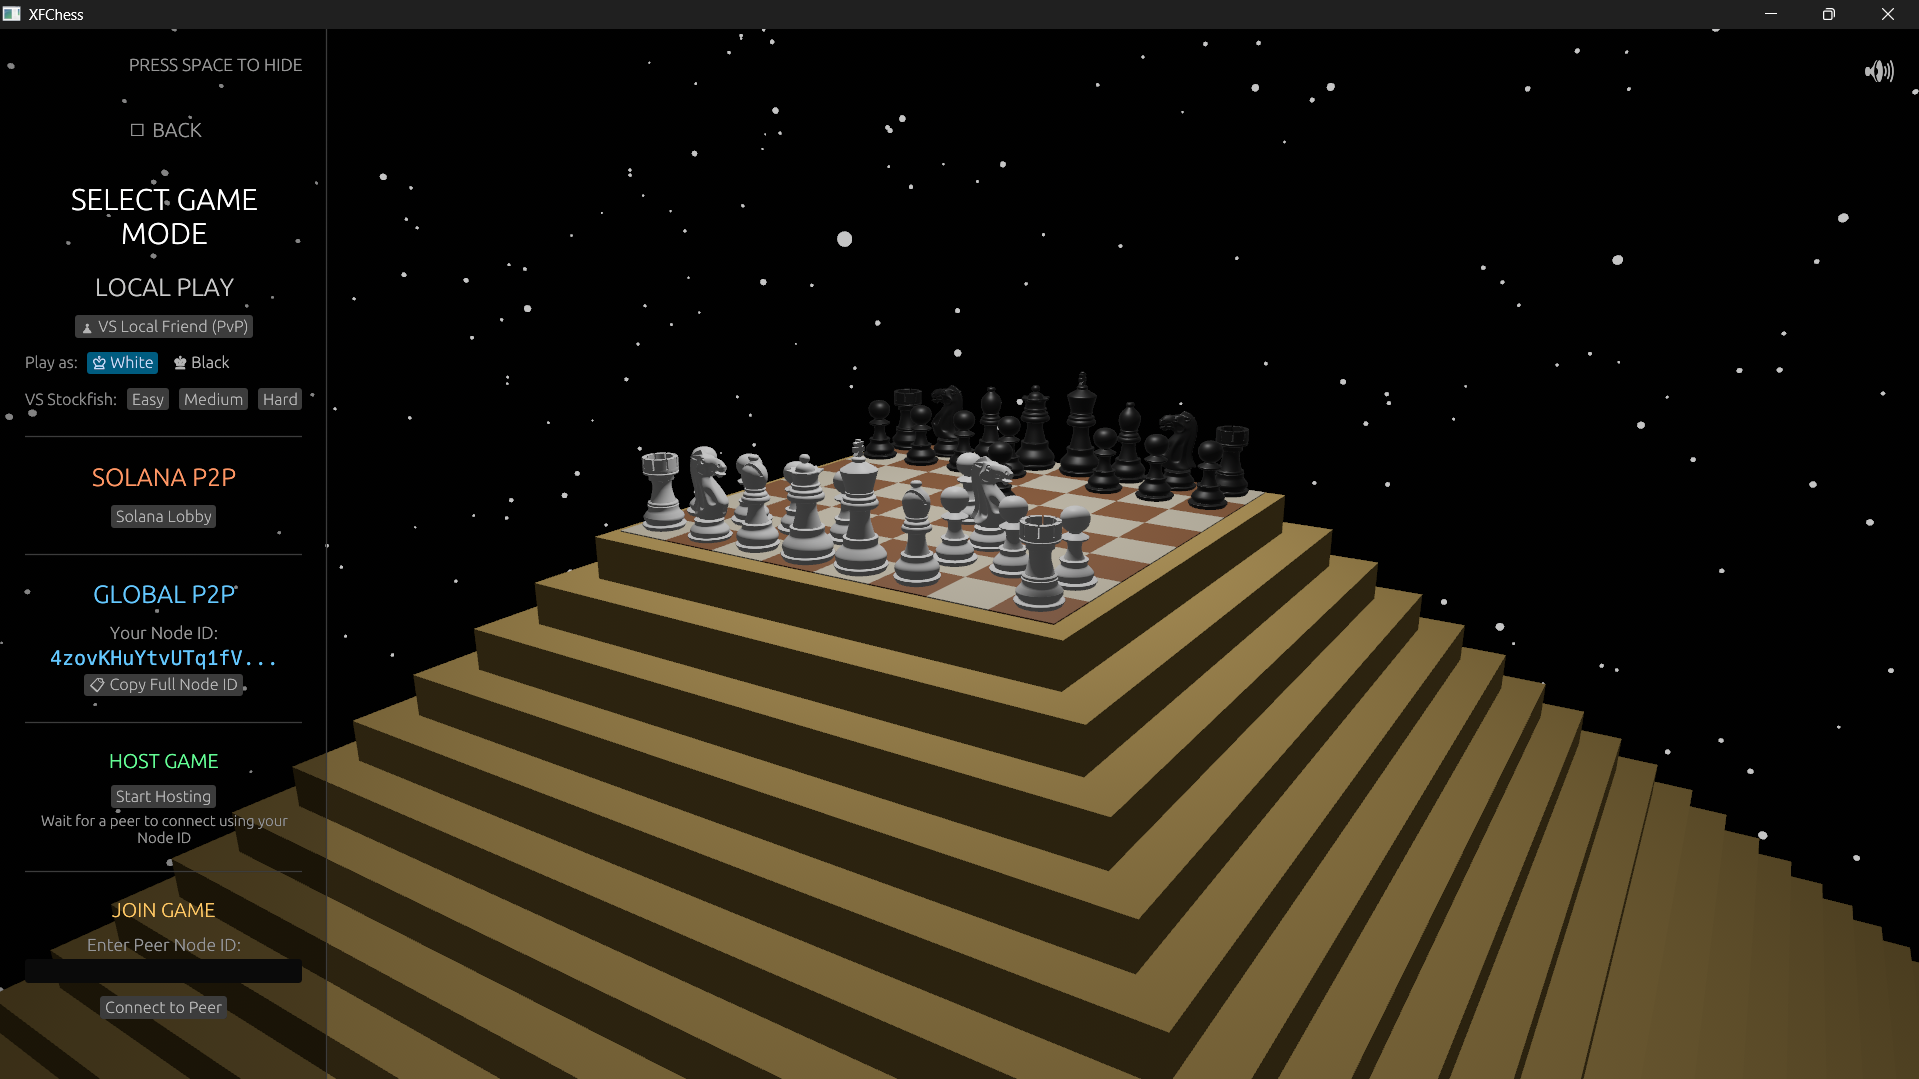
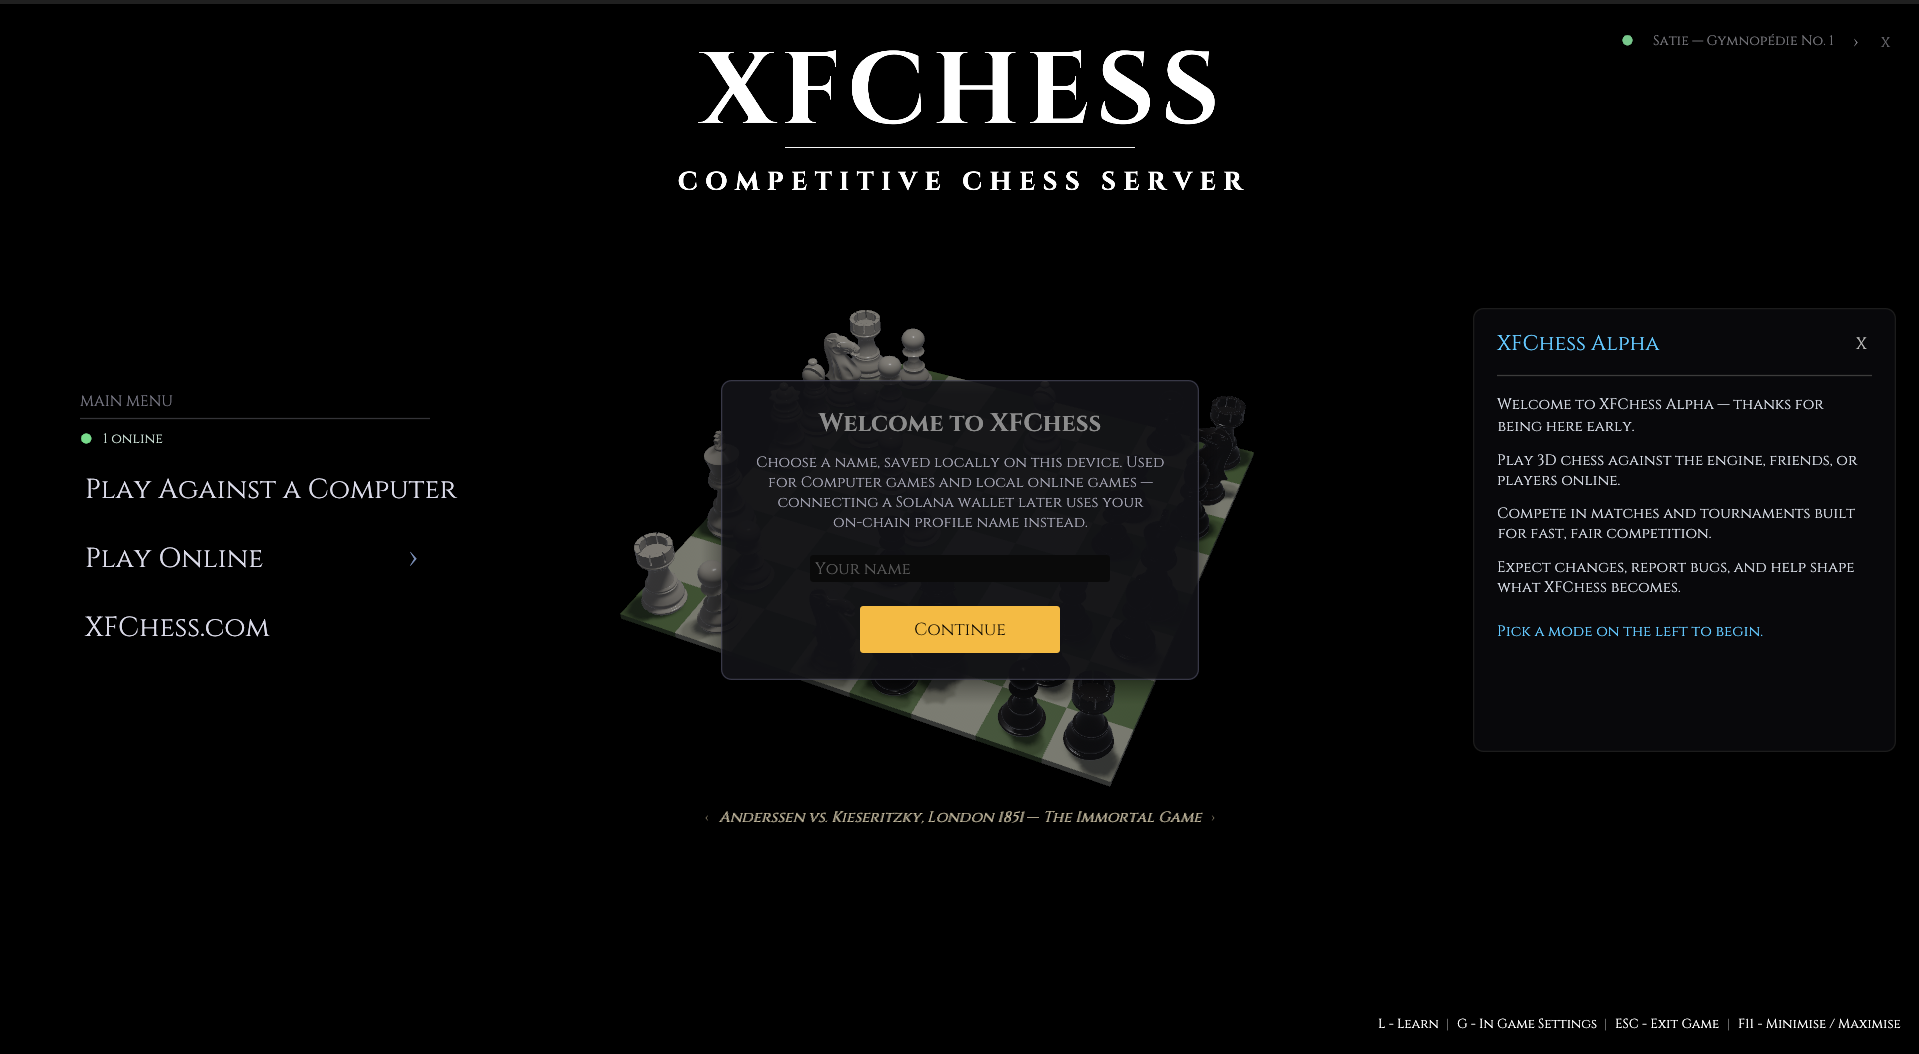
docs: replace screenshots with new gameplay captures

diff --git a/README.md b/README.md
@@ -45,9 +45,14 @@ against the engine works fully offline; online multiplayer, tournaments, and
 wagered play need an internet connection and, for on-chain features, a Solana
 wallet (Phantom or Solflare).
 
-![Gameplay Screenshot](docs/images/screenshot_1.png)
-![Tournament Interface](docs/images/screenshot_2.png)
-![Multiplayer Match](docs/images/screenshot_3.png)
+![XFChess](docs/images/screenshot_1.png)
+![XFChess](docs/images/screenshot_2.png)
+![XFChess](docs/images/screenshot_3.png)
+![XFChess](docs/images/screenshot_4.png)
+![XFChess](docs/images/screenshot_5.png)
+![XFChess](docs/images/screenshot_6.png)
+![XFChess](docs/images/screenshot_7.png)
+![XFChess](docs/images/screenshot_8.png)
 
 ## Docs
 
